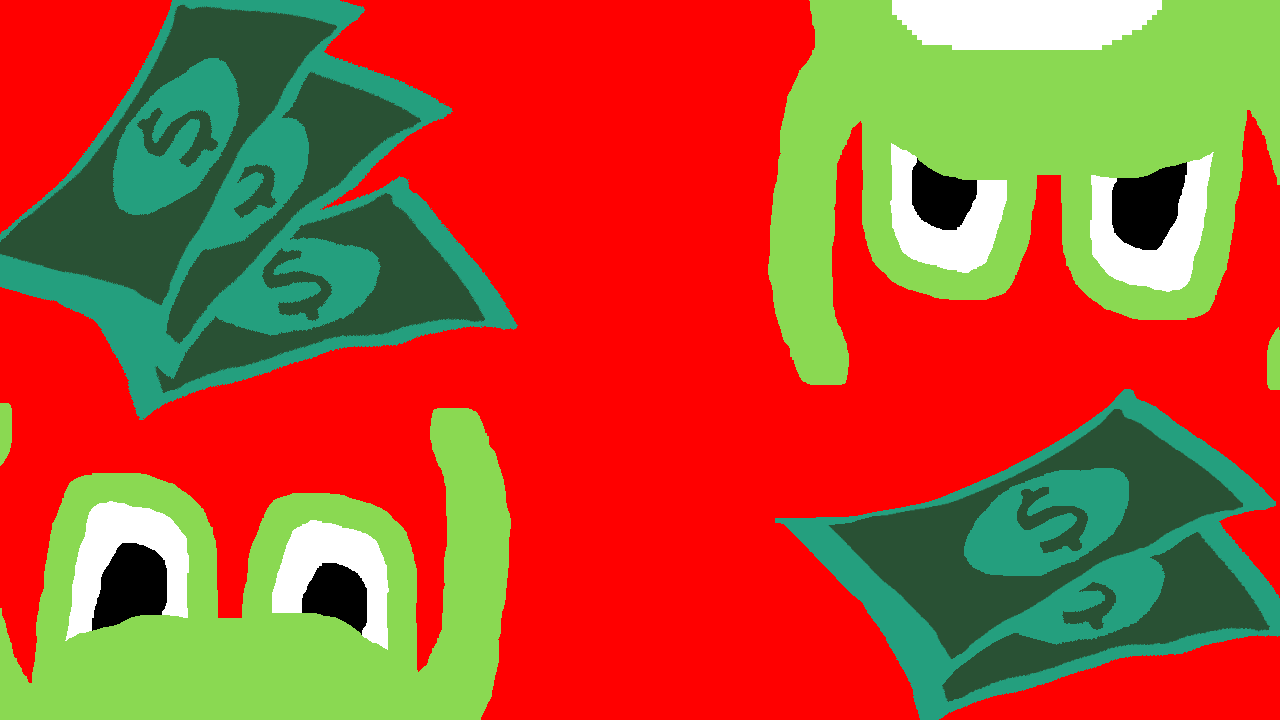
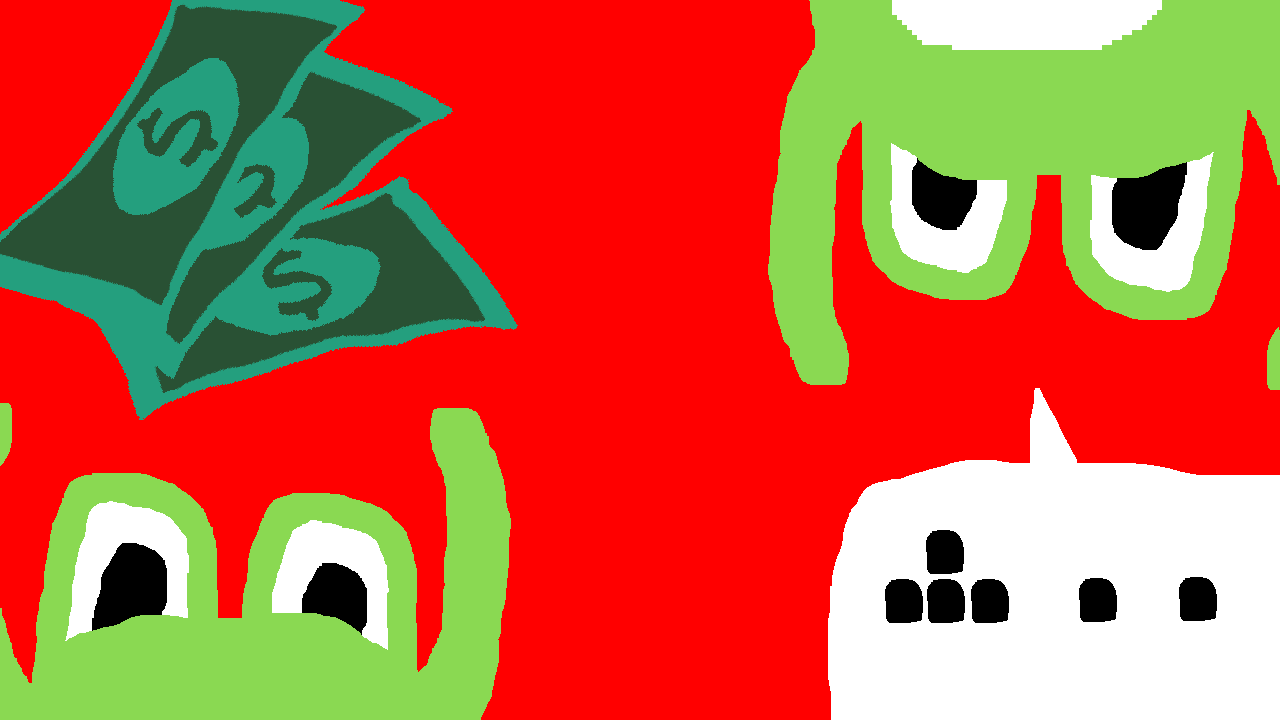
draw start controls

Changed region(s): [[0.5938, 0.55, 1.0, 1.0]]

diff --git a/docs/design/ground-pattern-mask.md b/docs/design/ground-pattern-mask.md
@@ -1,0 +1,62 @@
+# Design: Ground Pattern Mask
+
+## Goal
+
+Apply a repeating pattern texture to the cashier floor tiles the same way `WallPattern` does for the wall — using a red-mask PNG and a world-space GLSL shader so the pattern tiles seamlessly across the floor regardless of camera position.
+
+## How the Wall Pattern Works (Reference)
+
+- `cashier_wall.png` is a single large image drawn at `(-ZONE_WIDTH, 0)`.
+- Pixels that are pure red (`r > 0.9, g < 0.1, b < 0.1`) act as a mask.
+- `wall_pattern.glsl` replaces those pixels with the repeating pattern from `wall_pattern.png`, sampled at world coordinates, so it stays aligned as the camera pans.
+- Caller passes `world_origin` (the tile's top-left in world space) so the shader can compute `world_pos = world_origin + uv * tile_size`.
+
+## What Changes
+
+### New asset: `assets/images/ground_pattern.png`
+A repeating texture the user supplies (analogous to `wall_pattern.png`). Registered in `assets.lua` as `A.ground_pattern` via `try_img` so the feature degrades gracefully if the file isn't there yet.
+
+### New asset (mask): `assets/images/slot.png` — updated by user
+The existing `slot.png` tile gets red mask pixels where the pattern should show through. **No code change needed here — this is a pixel-art edit the user makes.**  
+If the user wants a separate masked tile (e.g. to keep `slot.png` clean), they can supply `assets/images/slot_masked.png`; we add that as `A.slot_masked` via `try_img` and fall back to `A.slot`.
+
+### New shader: `assets/shaders/ground_pattern.glsl`
+Nearly identical to `wall_pattern.glsl`. The mask check can be the same red-pixel test. The only difference from the wall shader is cosmetic naming — reusing the wall shader directly is also fine since the logic is identical.
+
+### New Lua wrapper: `lua/game/shaders/ground_pattern.lua`
+Mirrors `wall_pattern.lua`:
+```lua
+apply(pattern_img, world_x, world_y, tile_img)
+clear()
+```
+
+### Modified: `lua/game/scenes/store_scene.lua`
+
+`_cashier_floor` draw loop becomes:
+
+```lua
+local tile_img = A.slot_masked or A.slot
+while fx < 0 do
+    if A.ground_pattern then
+        GroundPattern.apply(A.ground_pattern, fx, floor_y, tile_img)
+    end
+    love.graphics.draw(tile_img, fx, floor_y, 0, sx, sy)
+    if A.ground_pattern then GroundPattern.clear() end
+    fx = fx + slot_w
+end
+```
+
+`world_origin` is `{fx, floor_y}` each iteration — this is what keeps the pattern seamlessly aligned across tiles in world space.
+
+## What Stays the Same
+
+- `WallPattern` and the wall draw path — untouched.
+- `slot.png` remains the default tile; the masked variant is opt-in.
+- The shader API pattern (`apply` / `clear`) is unchanged.
+- Floor position (`floor_y`, `slot_w`, scales) unchanged.
+
+## Open Questions
+
+1. **Separate pattern file or reuse `wall_pattern.png`?** A dedicated `ground_pattern.png` lets the wall and floor have different textures. Reusing the same file is simpler if you want them to match.
+2. **Reuse `wall_pattern.glsl` directly or duplicate?** The GLSL is identical; a second file is only needed if the ground mask color or blend logic will differ later.
+3. **New masked tile or edit `slot.png` in-place?** Editing `slot.png` is simpler; a separate `slot_masked.png` keeps the original clean.

diff --git a/docs/checklists/ground-pattern-mask.md b/docs/checklists/ground-pattern-mask.md
@@ -1,0 +1,15 @@
+# Checklist: Ground Pattern Mask
+
+## Tasks
+
+- [x] **1. Register `ground_pattern` asset** — `lua/game/assets.lua`
+  Add `A.ground_pattern = try_img("assets/images/ground_pattern.png")` after the existing `wall_pattern` line. Use `try_img` so it degrades gracefully.
+  **Note:** For now `ground_pattern.png` does not exist; we reuse `A.wall_pattern` in code, so this line is added as a future hook. See task 3.
+
+- [x] **2. Create `lua/game/shaders/ground_pattern.lua`**
+  New file, wraps `wall_pattern.glsl` directly (no new GLSL file). Exposes the same `apply(pattern_img, world_x, world_y, tile_img)` / `clear()` API as `wall_pattern.lua`.
+
+- [x] **3. Update `_cashier_floor` draw loop** — `lua/game/scenes/store_scene.lua`
+  - `require` the new `GroundPattern` wrapper at the top of the file.
+  - In `_cashier_floor.draw`, wrap each tile draw with `GroundPattern.apply` / `GroundPattern.clear`, passing `A.ground_pattern or A.wall_pattern` as the pattern image and `{fx, floor_y}` as the world origin.
+  - Guard the whole thing so it only runs when a pattern image is available.